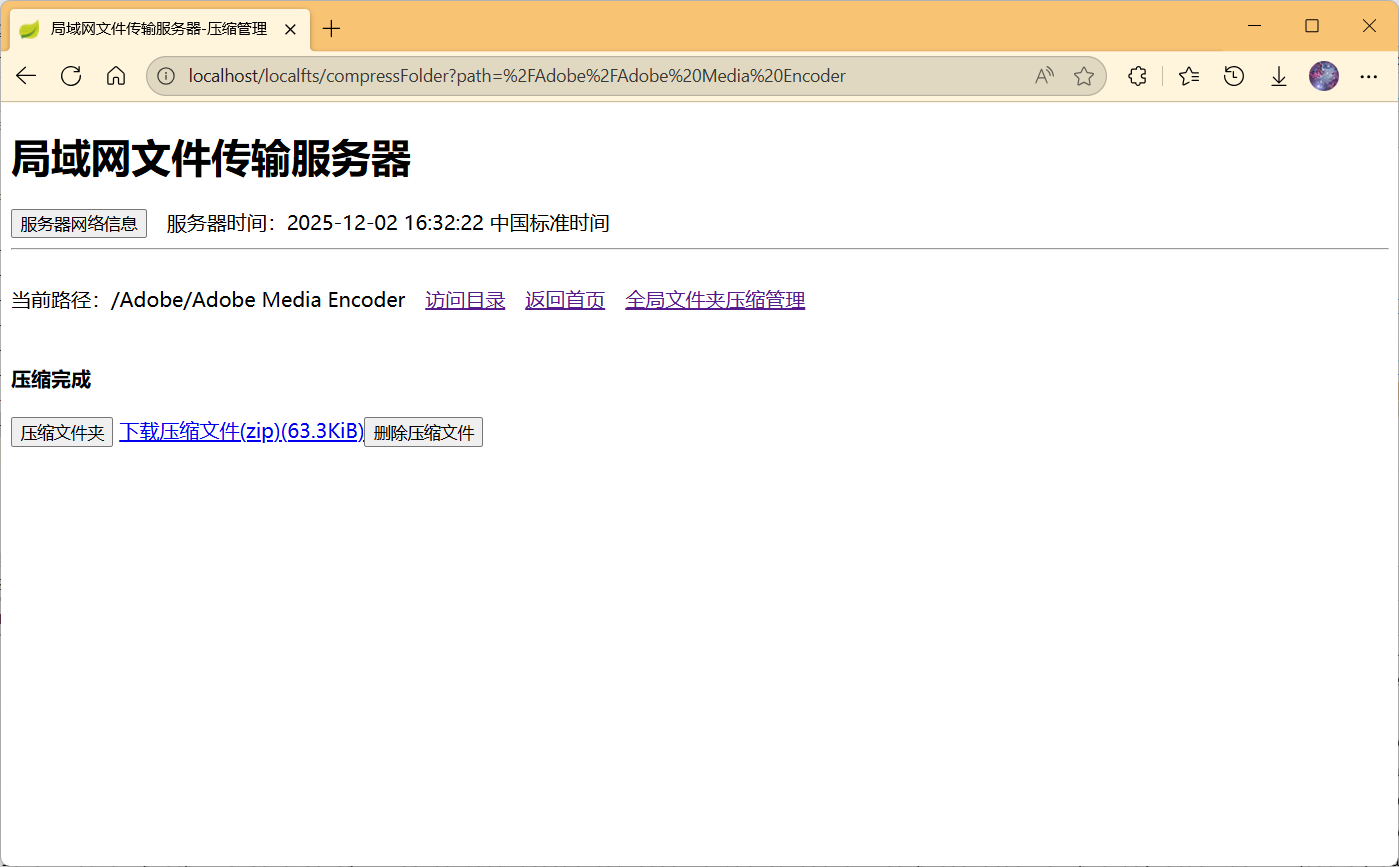
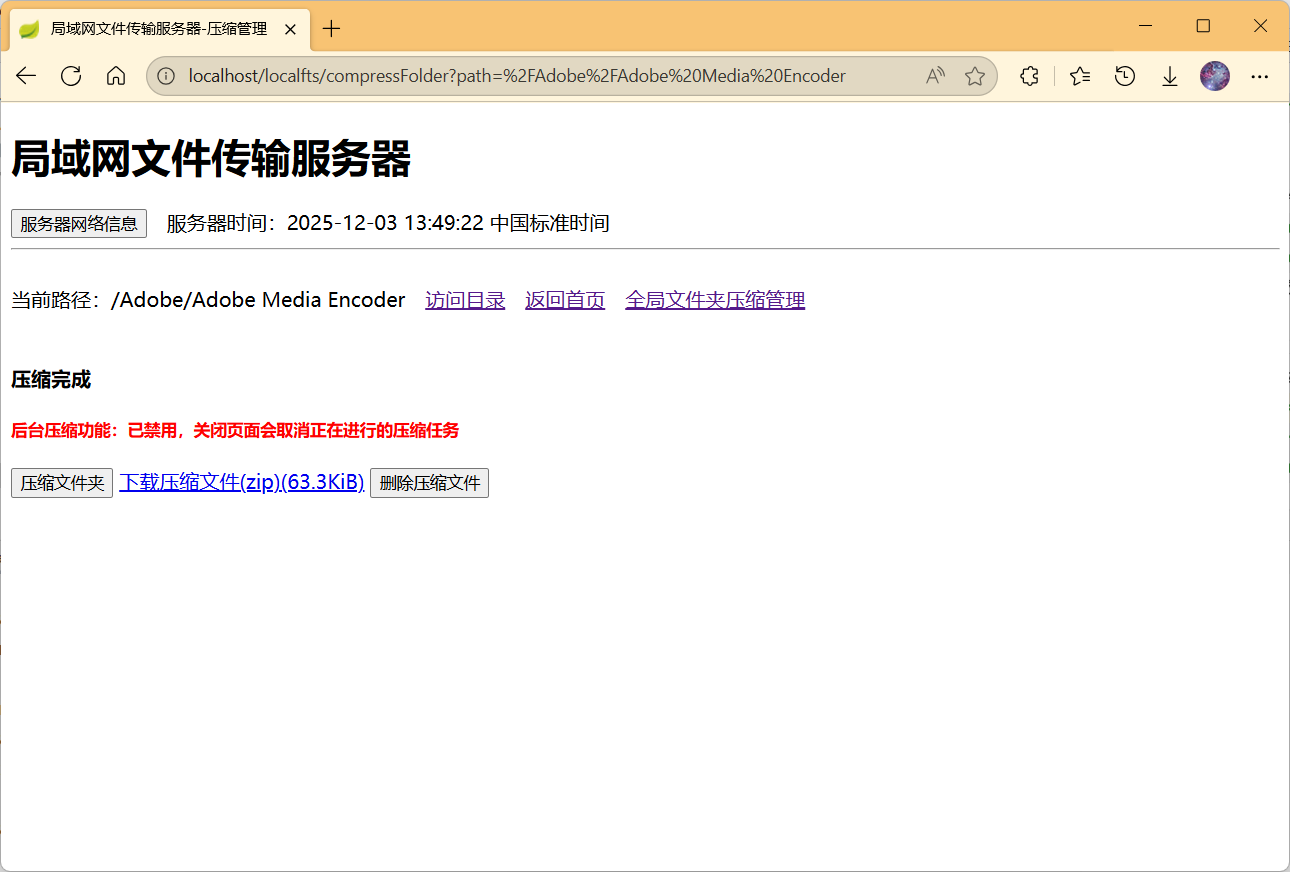
优化压缩文件异常处理；压缩页面增加展示后台压缩开关及相应提示

diff --git a/localfts-server/src/main/resources/templates/compress_folder.html b/localfts-server/src/main/resources/templates/compress_folder.html
@@ -54,6 +54,8 @@
     <h4 id="compressingHint" th:if="${compressStatus == 'COMPRESSING' and needSizeCheck}">正在检查文件夹大小并压缩</h4>
     <h4 id="compressingHint" th:if="${compressStatus == 'COMPRESSING' and !needSizeCheck}">正在压缩</h4>
     <h4 id="compressingHint" th:if="${compressStatus == 'COMPRESSED'}">压缩完成</h4>
+    <h5 th:if="${backgroundEnabled}">后台压缩功能：已启用</h5>
+    <h5 style="color:red" th:if="${!backgroundEnabled}">后台压缩功能：已禁用，关闭页面会取消正在进行的压缩任务</h5>
     <button id="compressButton" type="button" onclick="compressFolder()">压缩文件夹</button>
     <button id="cancelCompressButton" type="button" th:if="${compressStatus == 'COMPRESSING'}" onclick="cancelCompress()">取消压缩</button>
     <a id="download-zip" th:if="${compressStatus == 'COMPRESSED'}" th:text="${compressedFilePath}" th:attr="compress-file-size=${compressedFileSize}">下载压缩文件(zip)</a>

diff --git a/localfts-server/src/main/resources/templates/compress_management.html b/localfts-server/src/main/resources/templates/compress_management.html
@@ -52,6 +52,8 @@
 <div id="cmDiv">
     <h3 id="cmHint">总体统计信息</h3>
     <h4 id="cmPageHint">当前页统计信息</h4>
+    <h5 th:if="${backgroundEnabled}">后台压缩功能：已启用</h5>
+    <h5 th:if="${!backgroundEnabled}">后台压缩功能：已禁用，但关闭此页面不会取消正在进行的压缩任务</h5>
     <table style="text-align:left;border-style:solid;width:100%">
         <thead>
         <tr>

diff --git a/localfts-server/src/main/java/com/adam/localfts/webserver/service/FtsService.java b/localfts-server/src/main/java/com/adam/localfts/webserver/service/FtsService.java
@@ -213,6 +213,7 @@ public class FtsService implements DisposableBean {
         String zipFileAbsolutePath = zipFile.getAbsolutePath();
         boolean needCompress = false;
         boolean interrupted = false;
+        String exMessage = null;
         if(!zipFileExists) {
             ReentrantLock lock = getZipFileLock(zipFileAbsolutePath);
             try {
@@ -229,9 +230,15 @@ public class FtsService implements DisposableBean {
                         folderCompressingInfoMap.put(folderAbsolutePath, folderCompressingInfo);
                     }
                 }
-            } catch (InterruptedException e) {
-                interrupted = true;
-                LOGGER.info("interrupt folder compressing:{} -- delete zip file:{}", folderAbsolutePath, zipFileAbsolutePath);
+            } catch (Exception e) {
+                if(e instanceof InterruptedException) {
+                    interrupted = true;
+                } else {
+                    LOGGER.error("exception occurs when compressing folder", e);
+                    exMessage = e.getMessage();
+                }
+                String fm = interrupted ? "interrupt folder compressing" : "exception occurs when compressing folder";
+                LOGGER.info(fm + ":{} -- delete zip file:{}", folderAbsolutePath, zipFileAbsolutePath);
                 boolean deletes = zipFile.delete();
                 if(!deletes) {
                     LOGGER.warn("delete zip file failed:{}", zipFileAbsolutePath);
@@ -247,11 +254,11 @@ public class FtsService implements DisposableBean {
         FolderCompressStatus folderCompressStatus = getFolderCompressStatus(relativePath, false);
         if(needCompress) {
             long end = System.currentTimeMillis();
-            String statusMessage = interrupted ? "被中断" : "完成";
+            String statusMessage = interrupted ? "被中断" : (exMessage == null ? "完成" : "发生异常：" + exMessage);
             LOGGER.info("压缩文件夹（路径：{}）{}，压缩文件路径：{}，耗时{}毫秒", folderAbsolutePath, statusMessage, zipFileAbsolutePath, end - start);
         }
         if(folderCompressStatus == FolderCompressStatus.NOT_COMPRESSED) {
-            String reason = interrupted ? "压缩任务被取消" : "未知原因";
+            String reason = interrupted ? "压缩任务被取消" : (exMessage == null ? "未知原因" : "发生异常：" + exMessage);
             return ReturnObject.fail(reason);
         } else {
             FolderCompressData data = new FolderCompressData();

diff --git a/localfts-server/src/main/java/com/adam/localfts/webserver/controller/WebController.java b/localfts-server/src/main/java/com/adam/localfts/webserver/controller/WebController.java
@@ -87,6 +87,8 @@ public class WebController {
         model.addAttribute("pagedList", list);
         boolean needSizeCheck = ftsServerConfigService.getLocalFtsProperties().getZip().getMaxFolderSize() != null;
         model.addAttribute("needSizeCheck", needSizeCheck);
+        Boolean backgroundEnabled = ftsServerConfigService.getLocalFtsProperties().getZip().getBackgroundEnabled();
+        model.addAttribute("backgroundEnabled", backgroundEnabled);
         FtsServerIpInfoModel serverIpInfoModel = ftsServerConfigService.getFtsServerIpInfoModel();
         model.addAttribute("serverIpInfo", serverIpInfoModel);
         String serverTime = Util.getServerTimeFormattedString();
